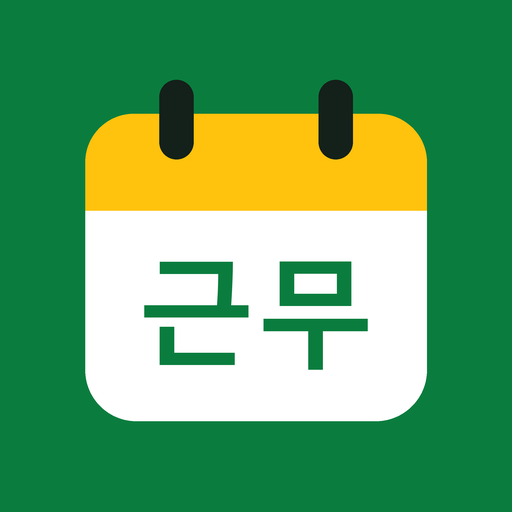
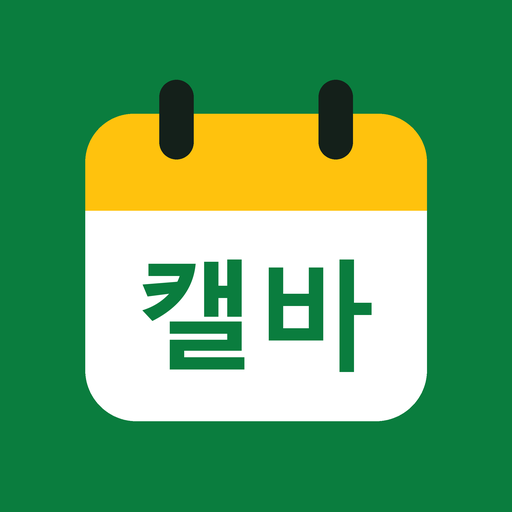
Name the app Calba

Changed region(s): [[0.2812, 0.5, 0.75, 0.75]]

diff --git a/index.html b/index.html
@@ -7,7 +7,8 @@
 <meta name="theme-color" content="#0a7d3e">
 <meta name="format-detection" content="telephone=no,date=no">
 <meta name="robots" content="noindex">
-<title>근무표 캘린더</title>
+<title>캘바 · 근무표 캘린더</title>
+<meta name="apple-mobile-web-app-title" content="캘바">
 <link rel="apple-touch-icon" href="icon-180.png">
 <link rel="manifest" href="manifest.webmanifest">
 <link rel="icon" type="image/png" href="icon-180.png">
@@ -35,7 +36,8 @@ main {
   max-width: 560px; margin: 0 auto;
   padding: calc(20px + env(safe-area-inset-top)) 16px calc(40px + env(safe-area-inset-bottom));
 }
-header h1 { font-size: 24px; line-height: 1.25; margin: 0 0 4px; letter-spacing: -0.02em; }
+header h1 { font-size: 28px; line-height: 1.2; margin: 0 0 4px; letter-spacing: -0.02em; color: var(--brand); }
+header h1 span { font-size: 15px; font-weight: 600; letter-spacing: 0; color: var(--muted); margin-left: 4px; }
 header p { margin: 0 0 18px; color: var(--muted); font-size: 15px; }
 .card { background: var(--card); border: 1px solid var(--line); border-radius: 18px; padding: 16px; margin-bottom: 12px; }
 .card h2 { font-size: 16px; margin: 0 0 10px; }
@@ -112,8 +114,8 @@ code.url { display: block; word-break: break-all; font: 13px/1.4 ui-monospace, M
 <body>
 <main>
   <header>
-    <h1>근무표 → 캘린더</h1>
-    <p>스케줄표 이미지에서 내 근무만 찾아 캘린더에 넣어요.</p>
+    <h1>캘바 <span>Calba</span></h1>
+    <p>근무표 사진에서 내 근무만 찾아 캘린더에 넣어요.</p>
   </header>
 
   <div id="inapp" class="notice warn" hidden>
@@ -188,7 +190,7 @@ code.url { display: block; word-break: break-all; font: 13px/1.4 ui-monospace, M
       <h3>갤럭시(안드로이드)</h3>
       <ol class="steps">
         <li>Chrome에서 이 페이지를 열고 메뉴(⋮) → “홈 화면에 추가” → “설치”.</li>
-        <li>매주: 카톡에서 스케줄표 이미지를 공유 → 앱 목록에서 “근무표”를 고르면 바로 읽어요.</li>
+        <li>매주: 카톡에서 스케줄표 이미지를 공유 → 앱 목록에서 “캘바”를 고르면 바로 읽어요.</li>
       </ol>
       <p class="hint">어느 폰이든 이미지를 저장해 두고 “사진에서 선택”으로 골라도 돼요.</p>
       <details class="more">
